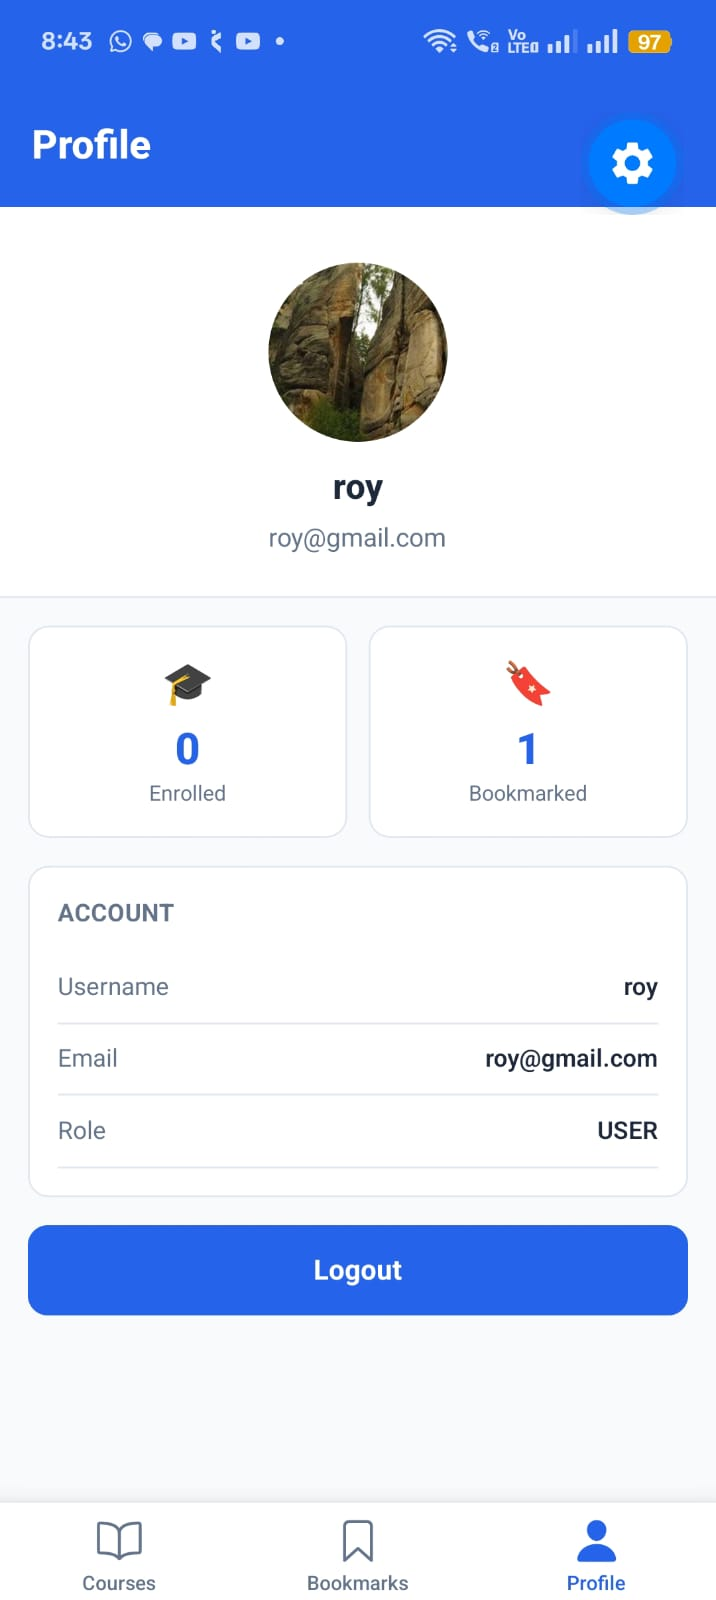
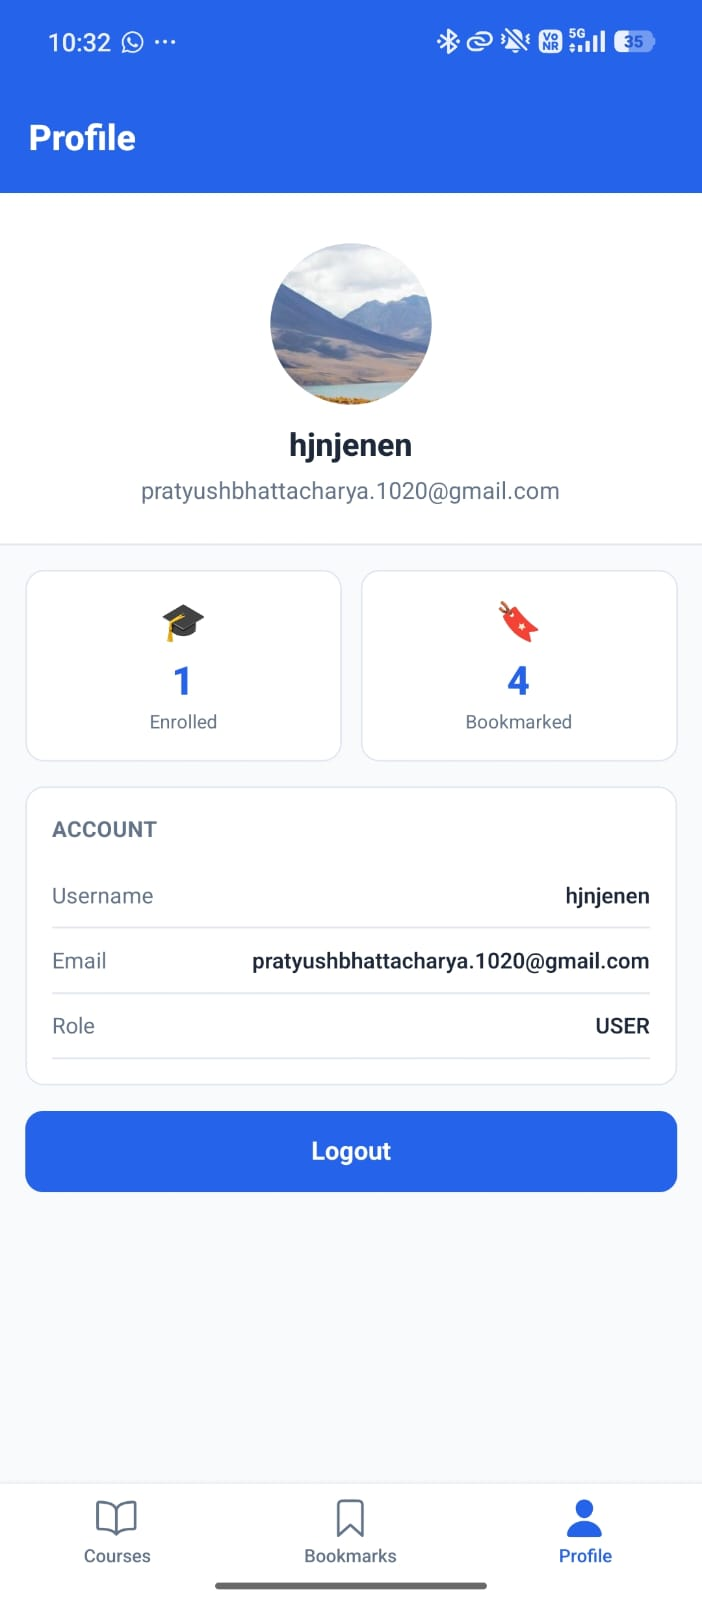
docs: update final app screenshots

diff --git a/README.md b/README.md
@@ -91,6 +91,46 @@ progression, progress tracking, and an AI-powered quiz system.
 Testing was performed on Android using Expo Go during development and
 the standalone EAS Preview APK for final verification.
 
+## 📱 Application Screenshots
+
+The following screenshots demonstrate the main application flows and features tested on a physical Android device.
+
+### 🔐 Authentication
+
+| Login |
+|---|
+| ![Login](screenshots/login%20page.jpeg) |
+
+### 📚 Course & Learning Flow
+
+| Course Page | Course Modules |
+|---|---|
+| ![Course Page](screenshots/course%20page.jpeg) | ![Course Modules](screenshots/course%20modules.jpeg) |
+
+| Start Learning | Lessons |
+|---|---|
+| ![Start Learning](screenshots/start%20learning.jpeg) | ![Lessons](screenshots/lessons.jpeg) |
+
+| Lesson Completed |
+|---|
+| ![Lesson Completed](screenshots/lesson%20completed.jpeg) |
+
+### 💳 Enrollment & Payment
+
+| Enrollment | Payment |
+|---|---|
+| ![Enrollment](screenshots/enrollment.jpeg) | ![Payment](screenshots/payment.jpeg) |
+
+| Successful Payment |
+|---|
+| ![Successful Payment](screenshots/successful%20payment.jpeg) |
+
+### 👤 User Profile
+
+| Profile |
+|---|
+| ![Profile](screenshots/profile.jpeg) |
+
 ### Authentication
 
 -   Registration with valid details
